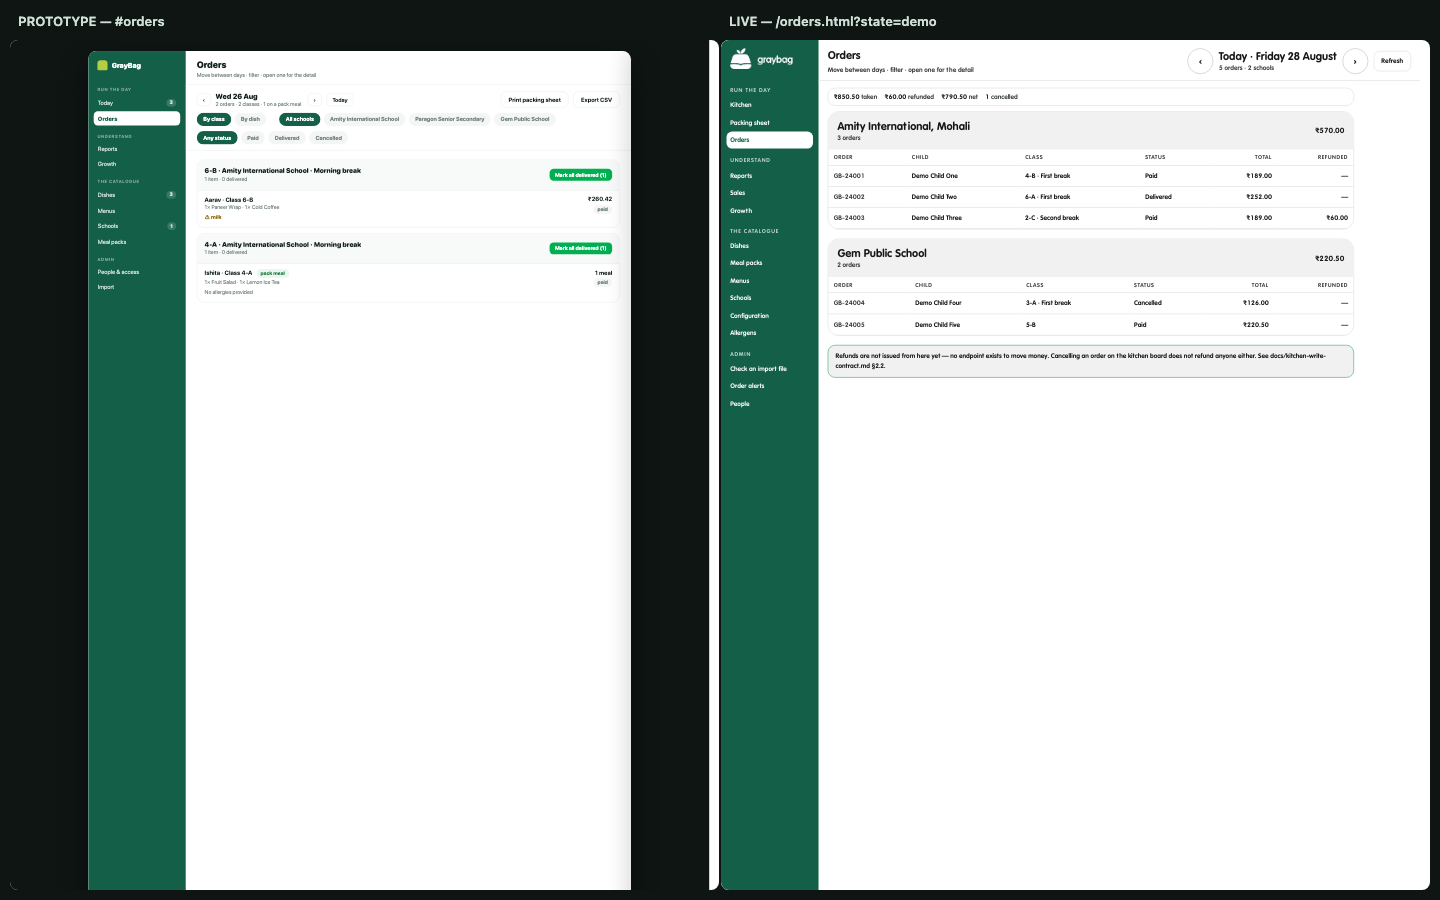
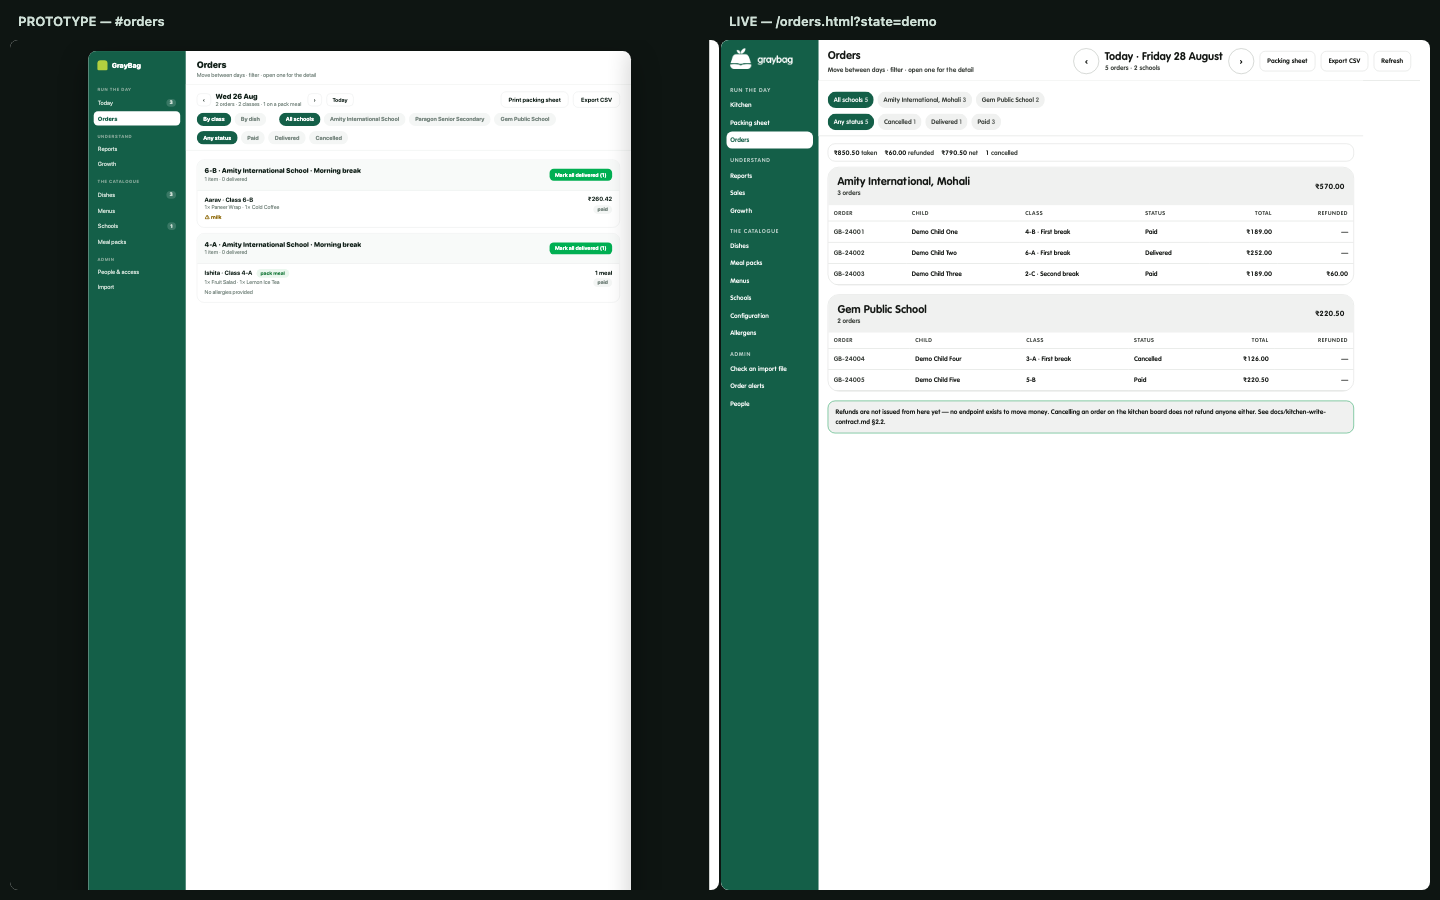
E10-70: /orders had no filters, no export, and no a11y audit
The prototype's Orders carries a school filter, a status filter and an
Export CSV. This screen had none of the three — readable at three
schools, a wall at ten, and the question somebody arrives with is "what
did Amity take today" or "which orders were cancelled".

Chips are built from the day's own orders, so a school with nothing
today does not offer a filter whose only possible result is an empty
page. Each dimension counts against the other filter in force, so the
numbers match what pressing it would show.

Filters live in the URL: a filtered day is a thing somebody sends to
somebody else, and Refresh is this page's most-used button. Filtering
is client-side — the day is already in memory, and a round trip to
narrow a list you are holding is a round trip on a school-gate
connection for no new information.

The CSV is built from the rows on screen, filters included. Andy
endorsed that on Reports; the reason is stronger here, because a second
read would export a different set from the one being looked at.

"Nobody ordered on this day" and "No orders match these filters" are
now different empty states, because they are different facts and only
one of them has anything you can do about it.

Also added to check:a11y, which had never audited it — absent for the
same reason parity-shot could not photograph it, and that pairing is
how the page reached production unstyled. Zero violations, 22 pages.

Deliberately not imported: "Mark all delivered", and grouping by class
[…]

diff --git a/apps/web/src/lib/admin/csv-export.test.ts b/apps/web/src/lib/admin/csv-export.test.ts
@@ -1,6 +1,8 @@
 import { describe, expect, it } from 'vitest';
 
-import { csvField, csvFilename, reportToCsv } from './csv-export.js';
+import type { api } from '@graybag/shared';
+
+import { csvField, csvFilename, ordersToCsv, reportToCsv } from './csv-export.js';
 
 const bucket = (over: Record<string, unknown> = {}) => ({
   key: '2026-08-17', label: '2026-08-17',
@@ -124,5 +126,77 @@ describe('csvFilename', () => {
   it('sorts and reads without being opened', () => {
     expect(csvFilename('2026-08-01', '2026-08-26', 'revenue'))
       .toBe('graybag-revenue-2026-08-01-to-2026-08-26.csv');
+  });
+});
+
+describe('ordersToCsv — E10-70', () => {
+  const order = (o: Partial<api.AdminOrder> & { orderRef: string }): api.AdminOrder => ({
+    id: `id-${o.orderRef}`, serviceDate: '2026-08-28', status: 'paid',
+    schoolId: 's-1', schoolName: 'Amity International, Mohali', kitchenId: 'k-1',
+    breakLabel: 'First break', recipientName: 'Demo Child', classLabel: '4', sectionLabel: 'B',
+    subtotalPaise: 18_000, taxPaise: 900, discountPaise: 0, totalPaise: 18_900, refundedPaise: 0,
+    ...o,
+  });
+
+  it('writes money as a plain decimal a spreadsheet can sum', () => {
+    const csv = ordersToCsv([order({ orderRef: 'GB-1', totalPaise: 123_456 })], {
+      serviceDate: '2026-08-28',
+    });
+    // The Total column, read as a field rather than searched for as a substring — `,189` appears
+    // in a correct row too, because a comma precedes every value.
+    const total = csv.split('\r\n').at(-1)!.split(',').at(-2);
+    expect(total).toBe('1234.56');
+    // No symbol and no thousands separator. `₹1,234.56` is text to a spreadsheet, and a column of
+    // text is a column nobody can total.
+    expect(total).not.toContain('₹');
+    expect(Number(total)).toBe(1234.56);
+  });
+
+  it('quotes a school name containing a comma — the ordinary case here, not the edge case', () => {
+    const csv = ordersToCsv([order({ orderRef: 'GB-1' })], { serviceDate: '2026-08-28' });
+    expect(csv).toContain('"Amity International, Mohali"');
+  });
+
+  it('records the filters in force, so a saved file still says what it covers', () => {
+    const csv = ordersToCsv([order({ orderRef: 'GB-1' })], {
+      serviceDate: '2026-08-28', schoolName: 'Gem Public School', status: 'cancelled',
+    });
+    expect(csv).toContain('School,Gem Public School');
+    expect(csv).toContain('Status,cancelled');
+  });
+
+  it('omits a filter line that is not in force rather than writing "all"', () => {
+    const csv = ordersToCsv([order({ orderRef: 'GB-1' })], { serviceDate: '2026-08-28' });
+    // The preamble only — the column header legitimately contains "School," and searching the
+    // whole file for it was the assertion being wrong, not the code.
+    const preamble = csv.split('\r\n\r\n')[0]!;
+    expect(preamble).toBe('GrayBag orders,2026-08-28');
+  });
+
+  it('exports exactly the rows it is given — the file is the screen', () => {
+    const csv = ordersToCsv(
+      [order({ orderRef: 'GB-1' }), order({ orderRef: 'GB-2' })],
+      { serviceDate: '2026-08-28' },
+    );
+    expect(csv.split('\r\n').filter((l) => l.startsWith('GB-'))).toHaveLength(2);
+  });
+
+  it('neutralises a leading formula character', () => {
+    // A CSV that can run a formula is a CSV that can exfiltrate the rest of the sheet. The guard
+    // is the leading tab; quoting is a separate concern and this value needs none, which is what
+    // the first version of this test got wrong about its own subject.
+    const csv = ordersToCsv([order({ orderRef: 'GB-1', recipientName: '=cmd()' })], {
+      serviceDate: '2026-08-28',
+    });
+    // Asserted as a delimited substring rather than by splitting on commas: the school field is
+    // quoted *because* it contains one, so naive splitting mis-parses the row — which is the
+    // second time this test's own parsing, not the code, was the thing that was wrong.
+    expect(csv).toContain(',\t=cmd(),');
+    expect(csv).not.toContain(',=cmd(),');
+  });
+
+  it('writes a header even when the day is empty, so the file is not a blank page', () => {
+    const csv = ordersToCsv([], { serviceDate: '2026-08-28' });
+    expect(csv).toContain('Order,School,Child');
   });
 });

diff --git a/planning/backlog.html b/planning/backlog.html
@@ -4347,13 +4347,13 @@
         </div>
         <div class="meter-wrap">
           <div class="meter"><span style="width:0%"></span></div>
-          <span class="meter-num">0/60</span>
+          <span class="meter-num">0/61</span>
         </div>
       </header>
       <p class="summary">The backend Andy needs to run the business — school onboarding, menu management, config, users, money.</p>
       <p class="deps">Depends on <code>E02</code> <code>E04</code> <code>E07</code></p>
       <details>
-        <summary>Context &amp; 60 tasks</summary>
+        <summary>Context &amp; 61 tasks</summary>
         <div class="context"></div>
         <ul class="tasks">
       <li class="task" data-id="E10-01" data-seed="1" data-risk="" data-owner="build" data-mvp="1" data-seed="1">
@@ -4835,6 +4835,14 @@
         
         <span class="badge r-later">later</span>
         <span class="ttext"><strong>Sort the &quot;Needs you&quot; list by what it costs, not by school order.</strong> It currently lists every blocking school in read order, then dishes, then non-blocking gaps. Right for three schools; at thirty, a school that took ₹40,000 last month and one that has never traded read identically. Needs the revenue join Reports already computes</span>
+      </li>
+      <li class="task" data-id="E10-70" data-seed="1" data-risk="" data-owner="build" data-mvp="0" data-seed="1">
+        <button class="box" role="checkbox" aria-checked="false" aria-label="Toggle E10-70"></button>
+        <code class="tid">E10-70</code>
+        
+        
+        <span class="badge r-later">later</span>
+        <span class="ttext"><strong><code>/orders</code> had no filters, no export, and was not in the a11y sweep.</strong> The prototype&#39;s Orders carries a school filter, a status filter and an Export CSV; this screen had none of the three, which is readable at three schools and a wall at ten — and the question somebody actually arrives with is *&quot;what did Amity take today&quot;* or *&quot;which orders were cancelled&quot;*. Chips are <strong>built from the day&#39;s own orders</strong>, so a school with nothing today does not offer a filter whose only possible result is an empty page, and each dimension counts against the other filter in force so the numbers match what pressing it would show. Filters live in the <strong>URL</strong>, because a filtered day is a thing somebody sends to somebody else and Refresh is this page&#39;s most-used button. <strong>Filtering is client-side</strong>: the day is already in memory, and a round trip to narrow a list you are holding is a round trip on a school-gate connection for no new information. The CSV is built from the rows on screen, filters included — Andy endorsed that on Reports and the reason is stronger here, since a second read would export a different set from the one being looked at. <code>&quot;Nobody ordered on this day&quot;</code> and <code>&quot;No orders match these filters&quot;</code> are now different empty states with different actions. Also <strong>added to <code>check:a11y</code></strong>, which had never audited it: absent for the same reason <code>parity-shot</code> could not photograph it, and that pairing is how it reached production unstyled. Deliberately <strong>not</strong> imported from the prototype: <code>Mark all delivered</code>, and grouping by class or dish. Those are <code>/kitchen</code>&#39;s, and the prototype has no kitchen screen to put them on — duplicating a write path onto the money view is what <code>D3</code> and <code>E10-08</code> argue against</span>
       </li></ul>
       </details>
     </article>

diff --git a/apps/web/src/lib/admin/csv-export.ts b/apps/web/src/lib/admin/csv-export.ts
@@ -168,3 +168,45 @@ export function downloadCsv(content: string, filename: string): void {
   // Released on the next tick — revoking synchronously cancels the download in Safari.
   setTimeout(() => URL.revokeObjectURL(url), 1000);
 }
+
+/**
+ * A day's orders, as the rows on screen — `E10-70`.
+ *
+ * **Built from what is displayed, not from a second query.** Andy endorsed that call on Reports
+ * (*"building the CSV from the rows already on screen rather than a second query"*), and the
+ * reason is stronger here: this list is filtered by school and status in the browser, so a second
+ * read would export a different set from the one somebody is looking at — a file that silently
+ * disagrees with the screen it came from.
+ *
+ * Money is a plain decimal with no symbol and no separators, for the same reason the revenue
+ * export is: a spreadsheet reads `1234.50` as a number and `₹1,234.50` as text, and a column of
+ * text is a column nobody can sum.
+ */
+export function ordersToCsv(
+  orders: readonly api.AdminOrder[],
+  options: { serviceDate: string; schoolName?: string | null; status?: string | null },
+): string {
+  const rows: string[] = [];
+
+  // A saved file has to say what it covers, or it is a mystery in six weeks' time.
+  rows.push(`GrayBag orders,${csvField(options.serviceDate)}`);
+  if (options.schoolName) rows.push(`School,${csvField(options.schoolName)}`);
+  if (options.status) rows.push(`Status,${csvField(options.status)}`);
+  rows.push('');
+
+  rows.push([
+    'Order', 'School', 'Child', 'Class', 'Section', 'Break', 'Status',
+    'Subtotal', 'Tax', 'Discount', 'Total', 'Refunded',
+  ].map(csvField).join(','));
+
+  for (const o of orders) {
+    rows.push([
+      o.orderRef, o.schoolName, o.recipientName, o.classLabel, o.sectionLabel, o.breakLabel,
+      o.status,
+      rupees(o.subtotalPaise), rupees(o.taxPaise), rupees(o.discountPaise),
+      rupees(o.totalPaise), rupees(o.refundedPaise),
+    ].map(csvField).join(','));
+  }
+
+  return rows.join('\r\n');
+}

diff --git a/docs/decisions/deployment.md b/docs/decisions/deployment.md
@@ -15,3 +15,20 @@ Made in `E01-14`.
 | DP5 | **The repository is PUBLIC** | Andy's decision, taken with the exposure stated: branch protection and environment approval rules are unavailable on free-plan private repositories, and the alternative was $4/month or losing both controls. Recorded because it is not a neutral choice — the published history permanently contains ten weights of **VAG Rounded Next**, a commercial typeface whose licence has never been checked (`E19-03`, `[DS-02]`), and `docs/authorization-model.md` + `docs/legacy-bubble-schema.md`, which map a legacy system that today exposes every order and every child's allergies publicly. Going private later does not retract clones, forks or search indexes. **Revisit `E19-03` with urgency, and treat the legacy exposure as one more reason to finish the migration** |
 | DP6 | **A job that reports a gate must not be behind that gate** — the ref check runs in a job with no `environment:` key | `E17-63`, 2026-08-28. `DP2` is right and stays, but its consequence is invisible: a `workflow_dispatch` from a branch is refused by the environment's branch policy *before the runner starts*, so the run has **zero steps and no logs at all**. On 2026-08-25 that was read as "the Migrations job failed" — it had never begun — and eight migrations plus nine Edge Functions sat unapplied for three days behind an apparently-attempted deploy. An ungated job always runs and can therefore explain the gate. Had the guard been gated on `production` like the job it protects, it would have been silenced by exactly the rule it exists for, so `deploy-production-ref.test.mjs` asserts the **absence** of the `environment:` key. The guard is legibility; `DP1`'s required-reviewer rule remains the control |
 | DP7 | **Production release tags are dated — `vYYYY.MM.DD`, with a trailing letter for a second release in one day — not semver** | `E17-63`, 2026-08-28, on cutting the first tag the repository has ever had. What ships to production is a schema, a set of Edge Functions and a site, none of which has a version; the thing that *does* have one is the mobile app, currently `4.0.0` in `app.json` and owned by the stores. A repo tag reading `v4.0.1` would be read as an app version by everyone including us, and the two move independently — an OTA changes the app without a tag, and a migration changes production without touching the app. Dated tags also match the existing house style for the web promotion marker (`[promote] release 2026-08-28b`), so one release vocabulary covers both |
+
+### The production deploy credentials, reconciled between two threads — 2026-08-28
+
+Two threads found the same fault — `Deploy to production` could not authenticate — and fixed it two
+different ways within a day of each other. `E01-31` (web, PR #154) changed the workflow file;
+`E17-64` (mobile) created the secrets in the `production` **environment**, which shadows the
+repo-level ones because the job carries `environment: production`. Andy's reconciliation is the
+**union**, and the reasoning for each half is different enough to be worth keeping.
+
+| # | Decision | Why |
+|---|---|---|
+| DP8 | **The project ref is hardcoded in the workflow, not read from a secret** | It is not a secret — it is in every Supabase URL the app ships with, and it is in this repo's `.env.example`. Storing it as one bought nothing and cost the deploy: `SUPABASE_PROJECT_REF` existed at no level, so the credential guard failed on every run and the failure looked like a permissions problem rather than a missing constant. A **visible deploy target** is also the property you want when reading a workflow to answer "which project does this write to?" — the answer should not require the ability to list secrets. Staging already hardcodes its own |
+| DP9 | **The database password is an `environment`-scoped secret, never a repo-level one** | This is the half `E01-31` got wrong, and the reason is sharper than "two passwords need two names". A **repo-level secret is readable by any workflow, including one with no `environment:` key** — and `deploy-production.yml` deliberately has an ungated `preflight` job (`DP6`) precisely so the guard runs before the approval gate. Environment scoping is what makes the production password unreachable from anything that has not passed the gate. Renaming it to `PRODUCTION_SUPABASE_DB_PASSWORD` at repo level, as #154 proposed, would have removed the *confusion* with staging's while leaving the *exposure* exactly as it was |
+
+**`E01-31` is closed rather than merged.** Its file change is right and is carried into the mobile
+thread's follow-up; its secret change is superseded by `DP9`. Recorded here rather than left in a
+closed pull request, because a closed PR is not the decision log and nobody reads one on purpose.

diff --git a/planning/backlog/E10-admin-dashboard.md b/planning/backlog/E10-admin-dashboard.md
@@ -70,3 +70,4 @@ summary: The backend Andy needs to run the business — school onboarding, menu 
 - [x] `E10-66` **A CSS port dropped a media query and prefixed the inside of a comment.** Folding `kitchen.css` into `backoffice.css` lost `@media (max-width: 30rem)` around the day nav's narrow rules, so the phone layout applied at 1440px, and prefixed a comment line by line — which once stripped parses as the selector `.bo .daynav__count`, making a `display: none` written for phones unconditional. `24 orders · 6 classes · 2 breaks` was missing from the kitchen board and from `/orders` on production and looked like a count nobody had built. Nothing we run can see either: a dropped media query is not a syntax error, and a stripped comment leaves a legal selector. Found by opening a parity screenshot. Same pass fixed `.notice > b:first-child`, which was written to bold only a *leading* headline and does not, because CSS `:first-child` counts elements and ignores text nodes — `Revoking is <b>not</b> a delete` matched it, and People had a three-sentence explanation rendered as a column of fragments under a comment claiming it was fixed. The headline is now `.notice__head`, asked for by name
 - [x] `E10-67` **Today — the status page, not the launcher.** `/dashboard` was fourteen cards, one per route, which was right for `E10-43`'s complaint (*"I need to find and paste URL endpoints"*) and stopped being right the moment `E10-55` put a persistent sidebar on every screen. A second navigation underneath the first is a screen spent saying nothing, and it was the first thing anyone saw every morning. Now it answers the question the URL is actually opened with: a **banner** for dishes on a live menu with no veg/non-veg marking (the one catalogue fault a parent meets directly, and every imported dish starts in it — `[DM-17]`), four cards — **Orders today**, **Revenue today**, **Packs sold**, **Needs you** — and **Kitchen, right now**. The subtitle is the date, because a status page whose heading does not say which day it covers is one you have to trust rather than read. Every figure is derived from a read another screen already makes; nothing here is a source of truth and nothing here is a control. **Panels are independent**: six reads behind five grants, each gated and rendered on its own, so a kitchen operator sees what they may see and one failing read leaves the rest standing. **A number that could not be read renders as an em dash and the reason, never as zero** — `ux-spec` §5.21, load-bearing here because "₹0 today" is a sentence somebody would act on, and because `null` (may not see money) and `0` (a pack-paid meal) are genuinely different facts on the same row
 - [ ] `E10-68` **Sort the "Needs you" list by what it costs, not by school order.** It currently lists every blocking school in read order, then dishes, then non-blocking gaps. Right for three schools; at thirty, a school that took ₹40,000 last month and one that has never traded read identically. Needs the revenue join Reports already computes
+- [x] `E10-70` **`/orders` had no filters, no export, and was not in the a11y sweep.** The prototype's Orders carries a school filter, a status filter and an Export CSV; this screen had none of the three, which is readable at three schools and a wall at ten — and the question somebody actually arrives with is *"what did Amity take today"* or *"which orders were cancelled"*. Chips are **built from the day's own orders**, so a school with nothing today does not offer a filter whose only possible result is an empty page, and each dimension counts against the other filter in force so the numbers match what pressing it would show. Filters live in the **URL**, because a filtered day is a thing somebody sends to somebody else and Refresh is this page's most-used button. **Filtering is client-side**: the day is already in memory, and a round trip to narrow a list you are holding is a round trip on a school-gate connection for no new information. The CSV is built from the rows on screen, filters included — Andy endorsed that on Reports and the reason is stronger here, since a second read would export a different set from the one being looked at. `"Nobody ordered on this day"` and `"No orders match these filters"` are now different empty states with different actions. Also **added to `check:a11y`**, which had never audited it: absent for the same reason `parity-shot` could not photograph it, and that pairing is how it reached production unstyled. Deliberately **not** imported from the prototype: `Mark all delivered`, and grouping by class or dish. Those are `/kitchen`'s, and the prototype has no kitchen screen to put them on — duplicating a write path onto the money view is what `D3` and `E10-08` argue against

diff --git a/docs/decisions.md b/docs/decisions.md
@@ -38,7 +38,7 @@ You do not need to read it to make a change — only to understand why a decisio
 | [Environments and secrets](decisions/environments.md) | `EN1`–`EN11` | Test/live key isolation, load-time assertions, `secrets:set`, the client `.env` pattern, OTA |
 | [CI](decisions/ci.md) | `CI1`–`CI4` | Smoke test only on PR, integration on `supabase/**` |
 | [Seed data](decisions/seed-data.md) | `SD1`–`SD5` | Fixed UUIDs, no orders/money, fixtures chosen for untestable states |
-| [Deployment](decisions/deployment.md) | `DP1`–`DP7` | Environment approval gate, branch policies, the ungated ref guard, dated release tags, the repo is public |
+| [Deployment](decisions/deployment.md) | `DP1`–`DP9` | Environment approval gate, branch policies, the ungated ref guard, dated release tags, the repo is public, deploy credentials |
 | [Branch protection](decisions/branch-protection.md) | `BP1`–`BP4` | No bypass actors, PR required, strict status checks |
 | [Scope confirmations](decisions/scope-confirmations.md) | `SC1`–`SC3` | Mohali only; menu prices GST-exclusive; Amity launches with zero migration |
 | [Authorization fixes](decisions/authorization-fixes.md) | `AZ8`–`AZ22` | Fulfilment scope binding, public catalogue reads for signed-in users, and the one derived owner |
